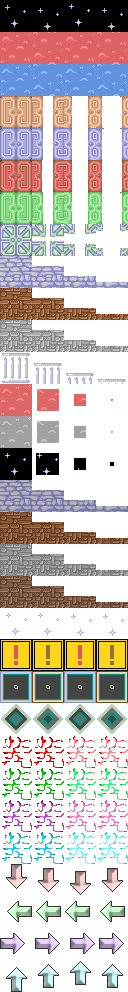
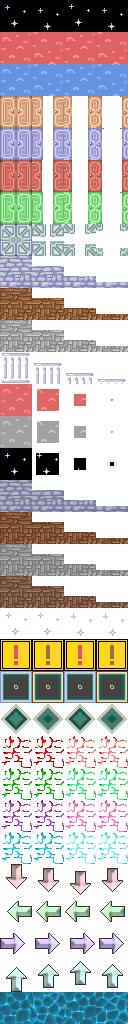
更多的默认素材

diff --git a/libs/maps.js b/libs/maps.js
@@ -78,8 +78,10 @@ maps.prototype.getBlock = function (x, y, id) {
     if (id == 12) tmp.event = {'cls': 'animates', 'id': 'poisonNet', 'noPass': false, 'trigger': 'passNet'}; // 毒网
     if (id == 13) tmp.event = {'cls': 'animates', 'id': 'weakNet', 'noPass': false, 'trigger': 'passNet'}; // 衰网
     if (id == 14) tmp.event = {'cls': 'animates', 'id': 'curseNet', 'noPass': false, 'trigger': 'passNet'}; // 咒网
+    if (id == 15) tmp.event = {'cls': 'animates', 'id': 'water', 'noPass': true}; // 水
 
-    if (id == 20) tmp.event = {'cls': 'autotile', 'id': 'autotile', 'noPass': true};
+    // autotile: 20
+    if (id == 20) tmp.event = {'cls': 'autotile', 'id': 'autotile', 'noPass': true}; // autotile
 
     // 21-80 物品
     if (id == 21) tmp.event = {'cls': 'items', 'id': 'yellowKey'}; // 黄钥匙

diff --git a/libs/icons.js b/libs/icons.js
@@ -40,7 +40,7 @@ icons.prototype.init = function () {
         'animates': {
             'star': 0,
             'lava': 1,
-            'water': 2,
+            'waterWall': 2,
             'yellowDoor': 3,
             'blueDoor': 4,
             'redDoor': 5,
@@ -68,7 +68,8 @@ icons.prototype.init = function () {
             'downPortal': 27,
             'leftPortal': 28,
             'rightPortal': 29,
-            'upPortal': 30
+            'upPortal': 30,
+            'water': 31,
         },
         'npcs': {
             'man': 0,
